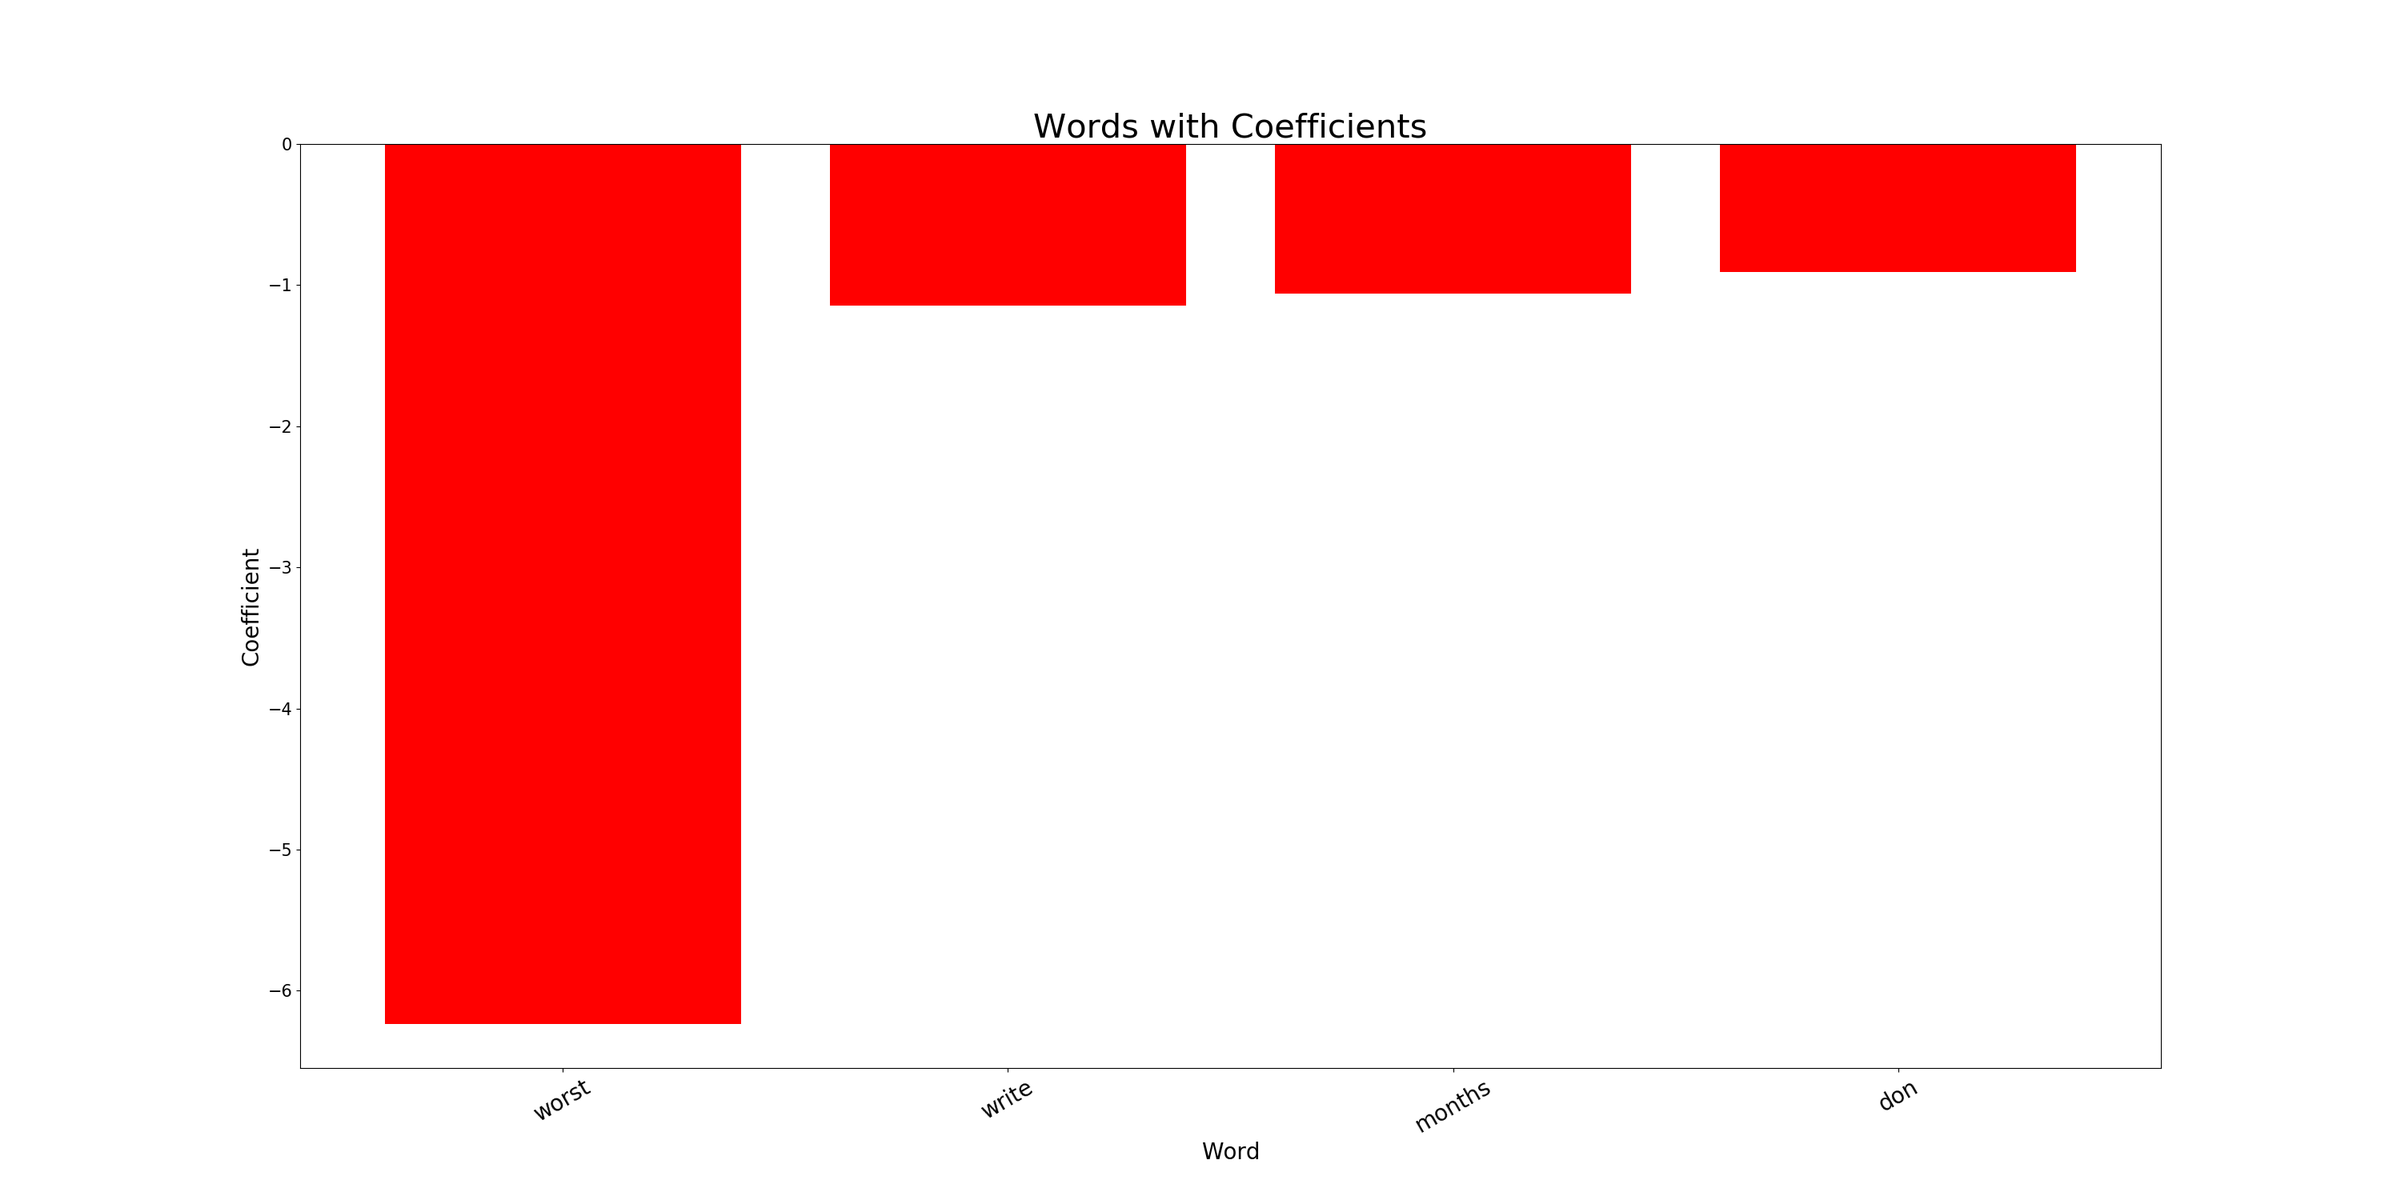
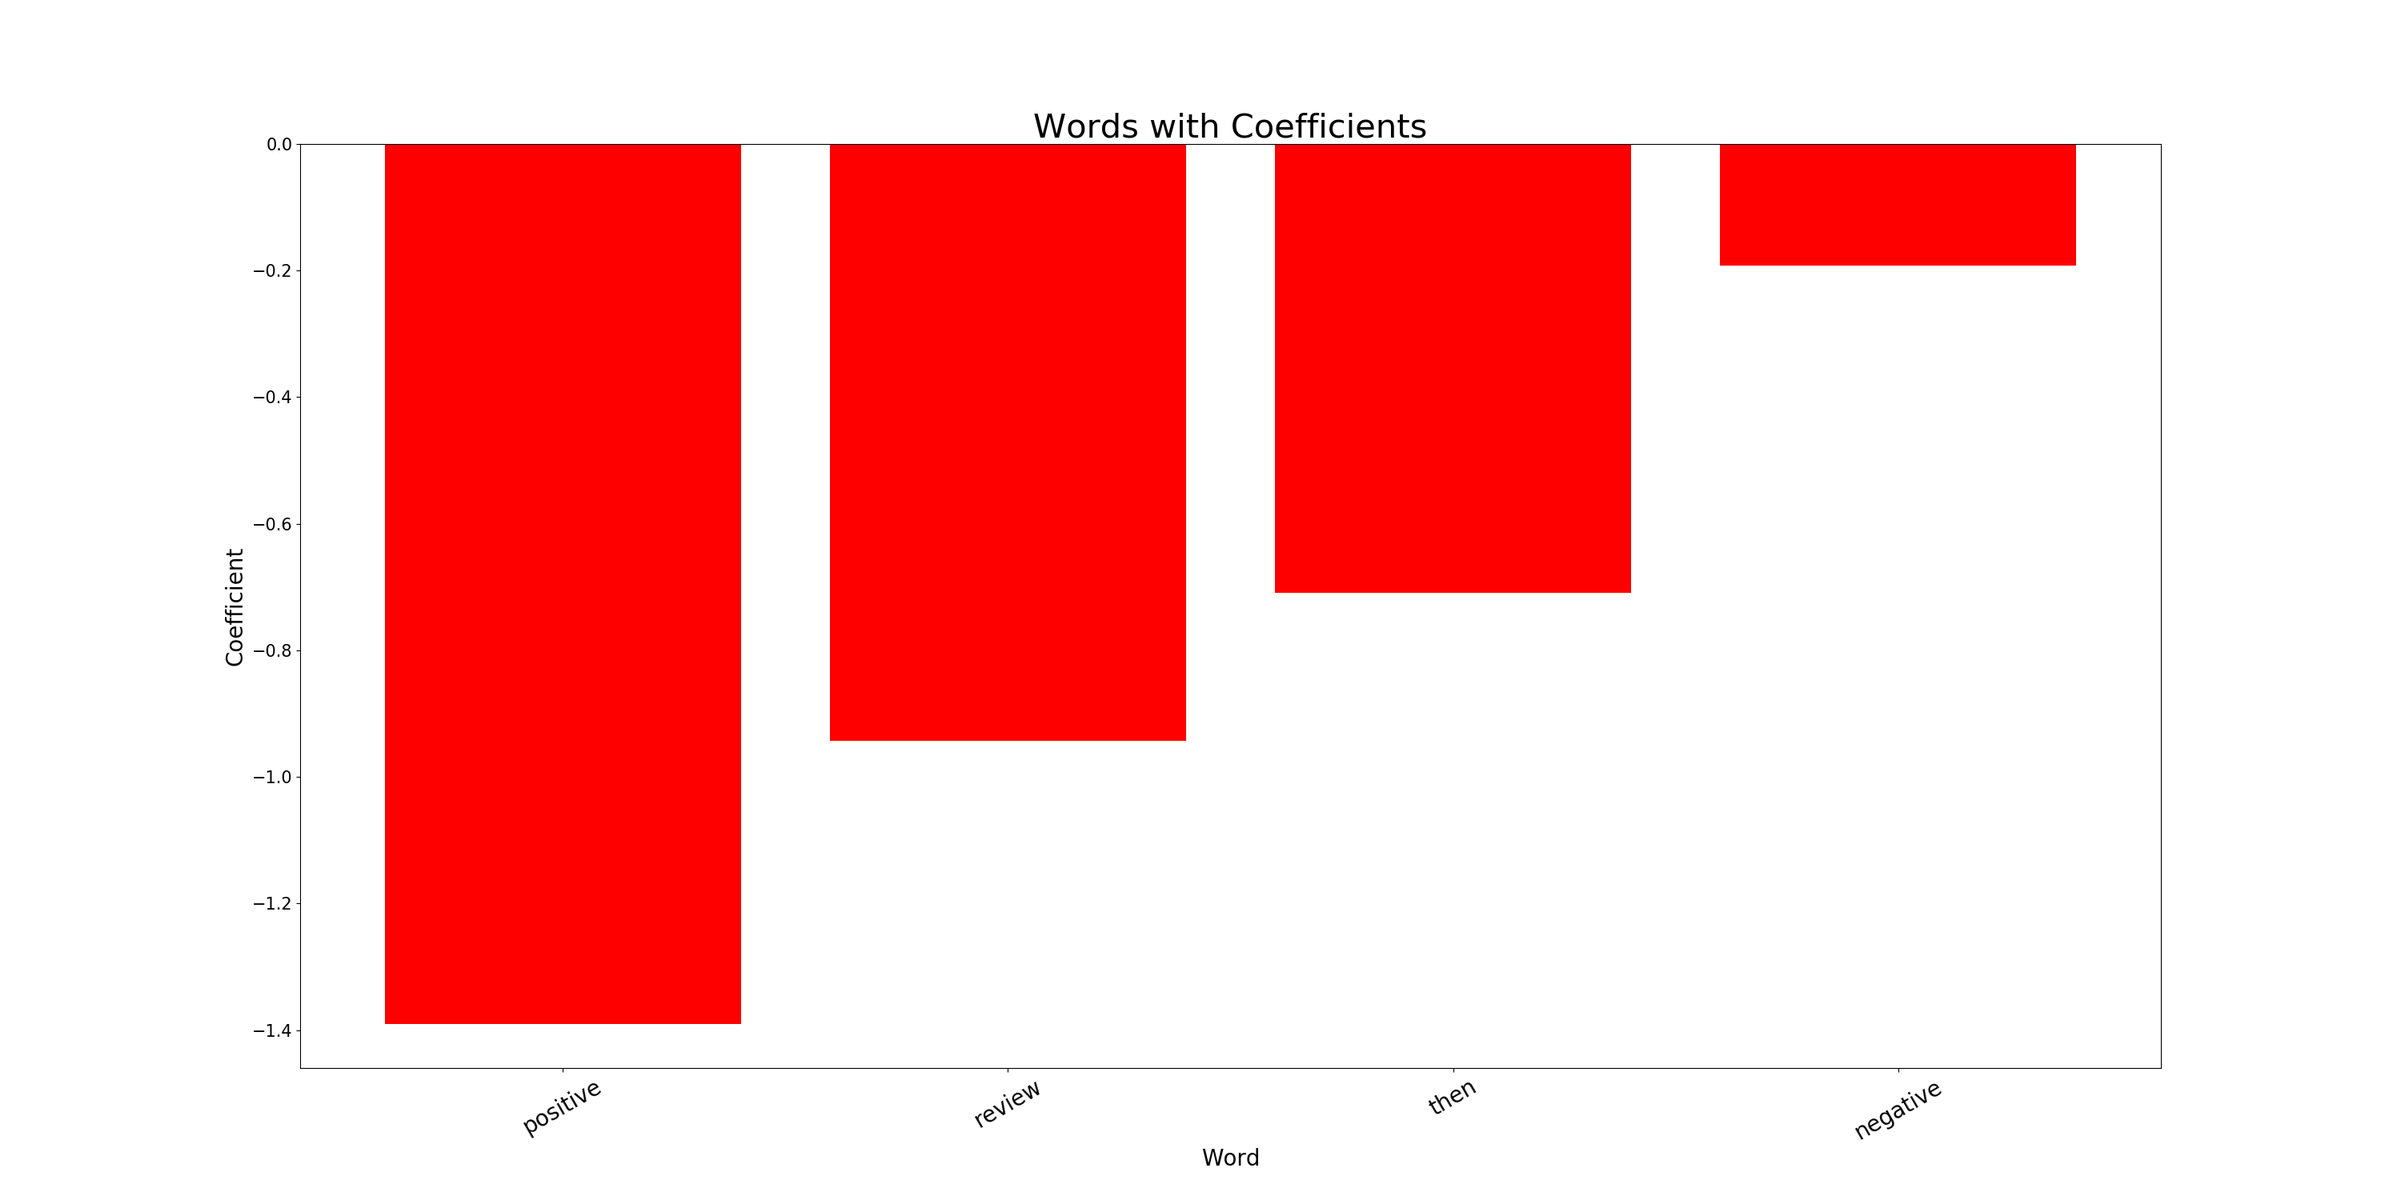
update pics

diff --git a/table.html b/table.html
@@ -1,151 +1,159 @@
 <style  type="text/css" >
-    #T_483a67ec_858c_11e9_af0d_b4ae2bc417aarow0_col0 {
+    #T_a8ccbfb4_858c_11e9_8a41_784f437bc938row0_col0 {
             width:  100px;
             text-align:  center;
-        }    #T_483a67ec_858c_11e9_af0d_b4ae2bc417aarow0_col1 {
-            color:  red;
-            background-color:  lightgreen;
-            : ;
-            width:  100px;
-            text-align:  center;
-        }    #T_483a67ec_858c_11e9_af0d_b4ae2bc417aarow0_col2 {
-            width:  100px;
-            text-align:  center;
-        }    #T_483a67ec_858c_11e9_af0d_b4ae2bc417aarow0_col3 {
-            width:  100px;
-            text-align:  center;
-        }    #T_483a67ec_858c_11e9_af0d_b4ae2bc417aarow0_col4 {
-            color:  red;
-            background-color:  lightgreen;
-            : ;
-            width:  100px;
-            text-align:  center;
-        }    #T_483a67ec_858c_11e9_af0d_b4ae2bc417aarow0_col5 {
-            width:  100px;
-            text-align:  center;
-        }    #T_483a67ec_858c_11e9_af0d_b4ae2bc417aarow0_col6 {
-            width:  100px;
-            text-align:  center;
-        }    #T_483a67ec_858c_11e9_af0d_b4ae2bc417aarow1_col0 {
-            width:  100px;
-            text-align:  center;
-        }    #T_483a67ec_858c_11e9_af0d_b4ae2bc417aarow1_col1 {
+        }    #T_a8ccbfb4_858c_11e9_8a41_784f437bc938row0_col1 {
             color:  red;
             : ;
             : ;
             width:  100px;
             text-align:  center;
-        }    #T_483a67ec_858c_11e9_af0d_b4ae2bc417aarow1_col2 {
+        }    #T_a8ccbfb4_858c_11e9_8a41_784f437bc938row0_col2 {
             width:  100px;
             text-align:  center;
-        }    #T_483a67ec_858c_11e9_af0d_b4ae2bc417aarow1_col3 {
+        }    #T_a8ccbfb4_858c_11e9_8a41_784f437bc938row0_col3 {
             width:  100px;
             text-align:  center;
-        }    #T_483a67ec_858c_11e9_af0d_b4ae2bc417aarow1_col4 {
+        }    #T_a8ccbfb4_858c_11e9_8a41_784f437bc938row0_col4 {
             color:  red;
             : ;
             : ;
             width:  100px;
             text-align:  center;
-        }    #T_483a67ec_858c_11e9_af0d_b4ae2bc417aarow1_col5 {
+        }    #T_a8ccbfb4_858c_11e9_8a41_784f437bc938row0_col5 {
             width:  100px;
             text-align:  center;
-        }    #T_483a67ec_858c_11e9_af0d_b4ae2bc417aarow1_col6 {
+        }    #T_a8ccbfb4_858c_11e9_8a41_784f437bc938row0_col6 {
             width:  100px;
             text-align:  center;
-        }    #T_483a67ec_858c_11e9_af0d_b4ae2bc417aarow2_col0 {
+        }    #T_a8ccbfb4_858c_11e9_8a41_784f437bc938row1_col0 {
             width:  100px;
             text-align:  center;
-        }    #T_483a67ec_858c_11e9_af0d_b4ae2bc417aarow2_col1 {
+        }    #T_a8ccbfb4_858c_11e9_8a41_784f437bc938row1_col1 {
             color:  red;
             : ;
             background-color:  yellow;
             width:  100px;
             text-align:  center;
-        }    #T_483a67ec_858c_11e9_af0d_b4ae2bc417aarow2_col2 {
+        }    #T_a8ccbfb4_858c_11e9_8a41_784f437bc938row1_col2 {
             width:  100px;
             text-align:  center;
-        }    #T_483a67ec_858c_11e9_af0d_b4ae2bc417aarow2_col3 {
+        }    #T_a8ccbfb4_858c_11e9_8a41_784f437bc938row1_col3 {
             width:  100px;
             text-align:  center;
-        }    #T_483a67ec_858c_11e9_af0d_b4ae2bc417aarow2_col4 {
+        }    #T_a8ccbfb4_858c_11e9_8a41_784f437bc938row1_col4 {
             color:  red;
             : ;
             background-color:  yellow;
             width:  100px;
             text-align:  center;
-        }    #T_483a67ec_858c_11e9_af0d_b4ae2bc417aarow2_col5 {
+        }    #T_a8ccbfb4_858c_11e9_8a41_784f437bc938row1_col5 {
             width:  100px;
             text-align:  center;
-        }    #T_483a67ec_858c_11e9_af0d_b4ae2bc417aarow2_col6 {
+        }    #T_a8ccbfb4_858c_11e9_8a41_784f437bc938row1_col6 {
             width:  100px;
             text-align:  center;
-        }    #T_483a67ec_858c_11e9_af0d_b4ae2bc417aarow3_col0 {
+        }    #T_a8ccbfb4_858c_11e9_8a41_784f437bc938row2_col0 {
             width:  100px;
             text-align:  center;
-        }    #T_483a67ec_858c_11e9_af0d_b4ae2bc417aarow3_col1 {
+        }    #T_a8ccbfb4_858c_11e9_8a41_784f437bc938row2_col1 {
+            color:  red;
+            background-color:  lightgreen;
+            : ;
+            width:  100px;
+            text-align:  center;
+        }    #T_a8ccbfb4_858c_11e9_8a41_784f437bc938row2_col2 {
+            width:  100px;
+            text-align:  center;
+        }    #T_a8ccbfb4_858c_11e9_8a41_784f437bc938row2_col3 {
+            width:  100px;
+            text-align:  center;
+        }    #T_a8ccbfb4_858c_11e9_8a41_784f437bc938row2_col4 {
+            color:  red;
+            background-color:  lightgreen;
+            : ;
+            width:  100px;
+            text-align:  center;
+        }    #T_a8ccbfb4_858c_11e9_8a41_784f437bc938row2_col5 {
+            width:  100px;
+            text-align:  center;
+        }    #T_a8ccbfb4_858c_11e9_8a41_784f437bc938row2_col6 {
+            width:  100px;
+            text-align:  center;
+        }    #T_a8ccbfb4_858c_11e9_8a41_784f437bc938row3_col0 {
+            width:  100px;
+            text-align:  center;
+        }    #T_a8ccbfb4_858c_11e9_8a41_784f437bc938row3_col1 {
             color:  red;
             : ;
             : ;
             width:  100px;
             text-align:  center;
-        }    #T_483a67ec_858c_11e9_af0d_b4ae2bc417aarow3_col2 {
+        }    #T_a8ccbfb4_858c_11e9_8a41_784f437bc938row3_col2 {
             width:  100px;
             text-align:  center;
-        }    #T_483a67ec_858c_11e9_af0d_b4ae2bc417aarow3_col3 {
+        }    #T_a8ccbfb4_858c_11e9_8a41_784f437bc938row3_col3 {
             width:  100px;
             text-align:  center;
-        }    #T_483a67ec_858c_11e9_af0d_b4ae2bc417aarow3_col4 {
+        }    #T_a8ccbfb4_858c_11e9_8a41_784f437bc938row3_col4 {
             color:  red;
             : ;
             : ;
             width:  100px;
             text-align:  center;
-        }    #T_483a67ec_858c_11e9_af0d_b4ae2bc417aarow3_col5 {
+        }    #T_a8ccbfb4_858c_11e9_8a41_784f437bc938row3_col5 {
             width:  100px;
             text-align:  center;
-        }    #T_483a67ec_858c_11e9_af0d_b4ae2bc417aarow3_col6 {
+        }    #T_a8ccbfb4_858c_11e9_8a41_784f437bc938row3_col6 {
             width:  100px;
             text-align:  center;
-        }</style><table id="T_483a67ec_858c_11e9_af0d_b4ae2bc417aa" ><thead>    <tr>        <th class="blank level0" ></th>        <th class="col_heading level0 col0" >_Feature_</th>        <th class="col_heading level0 col1" >_Contribution_</th>        <th class="col_heading level0 col2" >_Count_</th>        <th class="col_heading level0 col3" >_TFIDF_</th>        <th class="col_heading level0 col4" >_Coefficient_</th>        <th class="col_heading level0 col5" >_POSITIVE_</th>        <th class="col_heading level0 col6" >_NEGATIVE_</th>    </tr></thead><tbody>
-                <tr>
-                        <th id="T_483a67ec_858c_11e9_af0d_b4ae2bc417aalevel0_row0" class="row_heading level0 row0" >0</th>
-                        <td id="T_483a67ec_858c_11e9_af0d_b4ae2bc417aarow0_col0" class="data row0 col0" >don</td>
-                        <td id="T_483a67ec_858c_11e9_af0d_b4ae2bc417aarow0_col1" class="data row0 col1" >-0.3575</td>
-                        <td id="T_483a67ec_858c_11e9_af0d_b4ae2bc417aarow0_col2" class="data row0 col2" >1</td>
-                        <td id="T_483a67ec_858c_11e9_af0d_b4ae2bc417aarow0_col3" class="data row0 col3" >0.3934</td>
-                        <td id="T_483a67ec_858c_11e9_af0d_b4ae2bc417aarow0_col4" class="data row0 col4" >-0.9088</td>
-                        <td id="T_483a67ec_858c_11e9_af0d_b4ae2bc417aarow0_col5" class="data row0 col5" >68</td>
-                        <td id="T_483a67ec_858c_11e9_af0d_b4ae2bc417aarow0_col6" class="data row0 col6" >130</td>
-            </tr>
-            <tr>
-                        <th id="T_483a67ec_858c_11e9_af0d_b4ae2bc417aalevel0_row1" class="row_heading level0 row1" >1</th>
-                        <td id="T_483a67ec_858c_11e9_af0d_b4ae2bc417aarow1_col0" class="data row1 col0" >write</td>
-                        <td id="T_483a67ec_858c_11e9_af0d_b4ae2bc417aarow1_col1" class="data row1 col1" >-0.6539</td>
-                        <td id="T_483a67ec_858c_11e9_af0d_b4ae2bc417aarow1_col2" class="data row1 col2" >1</td>
-                        <td id="T_483a67ec_858c_11e9_af0d_b4ae2bc417aarow1_col3" class="data row1 col3" >0.5703</td>
-                        <td id="T_483a67ec_858c_11e9_af0d_b4ae2bc417aarow1_col4" class="data row1 col4" >-1.1467</td>
-                        <td id="T_483a67ec_858c_11e9_af0d_b4ae2bc417aarow1_col5" class="data row1 col5" >8</td>
-                        <td id="T_483a67ec_858c_11e9_af0d_b4ae2bc417aarow1_col6" class="data row1 col6" >22</td>
-            </tr>
-            <tr>
-                        <th id="T_483a67ec_858c_11e9_af0d_b4ae2bc417aalevel0_row2" class="row_heading level0 row2" >2</th>
-                        <td id="T_483a67ec_858c_11e9_af0d_b4ae2bc417aarow2_col0" class="data row2 col0" >worst</td>
-                        <td id="T_483a67ec_858c_11e9_af0d_b4ae2bc417aarow2_col1" class="data row2 col1" >-2.7999</td>
-                        <td id="T_483a67ec_858c_11e9_af0d_b4ae2bc417aarow2_col2" class="data row2 col2" >1</td>
-                        <td id="T_483a67ec_858c_11e9_af0d_b4ae2bc417aarow2_col3" class="data row2 col3" >0.449</td>
-                        <td id="T_483a67ec_858c_11e9_af0d_b4ae2bc417aarow2_col4" class="data row2 col4" >-6.2365</td>
-                        <td id="T_483a67ec_858c_11e9_af0d_b4ae2bc417aarow2_col5" class="data row2 col5" >2</td>
-                        <td id="T_483a67ec_858c_11e9_af0d_b4ae2bc417aarow2_col6" class="data row2 col6" >108</td>
-            </tr>
-            <tr>
-                        <th id="T_483a67ec_858c_11e9_af0d_b4ae2bc417aalevel0_row3" class="row_heading level0 row3" >3</th>
-                        <td id="T_483a67ec_858c_11e9_af0d_b4ae2bc417aarow3_col0" class="data row3 col0" >months</td>
-                        <td id="T_483a67ec_858c_11e9_af0d_b4ae2bc417aarow3_col1" class="data row3 col1" >-0.5986</td>
-                        <td id="T_483a67ec_858c_11e9_af0d_b4ae2bc417aarow3_col2" class="data row3 col2" >1</td>
-                        <td id="T_483a67ec_858c_11e9_af0d_b4ae2bc417aarow3_col3" class="data row3 col3" >0.5643</td>
-                        <td id="T_483a67ec_858c_11e9_af0d_b4ae2bc417aarow3_col4" class="data row3 col4" >-1.0608</td>
-                        <td id="T_483a67ec_858c_11e9_af0d_b4ae2bc417aarow3_col5" class="data row3 col5" >7</td>
-                        <td id="T_483a67ec_858c_11e9_af0d_b4ae2bc417aarow3_col6" class="data row3 col6" >25</td>
-            </tr>
-    </tbody></table>
+        }</style>  
+<table id="T_a8ccbfb4_858c_11e9_8a41_784f437bc938" > 
+<thead>    <tr> 
+        <th class="blank level0" ></th> 
+        <th class="col_heading level0 col0" >_Feature_</th> 
+        <th class="col_heading level0 col1" >_Contribution_</th> 
+        <th class="col_heading level0 col2" >_Count_</th> 
+        <th class="col_heading level0 col3" >_TFIDF_</th> 
+        <th class="col_heading level0 col4" >_Coefficient_</th> 
+        <th class="col_heading level0 col5" >_POSITIVE_</th> 
+        <th class="col_heading level0 col6" >_NEGATIVE_</th> 
+    </tr></thead> 
+<tbody>    <tr> 
+        <th id="T_a8ccbfb4_858c_11e9_8a41_784f437bc938level0_row0" class="row_heading level0 row0" >0</th> 
+        <td id="T_a8ccbfb4_858c_11e9_8a41_784f437bc938row0_col0" class="data row0 col0" >review</td> 
+        <td id="T_a8ccbfb4_858c_11e9_8a41_784f437bc938row0_col1" class="data row0 col1" >-0.613</td> 
+        <td id="T_a8ccbfb4_858c_11e9_8a41_784f437bc938row0_col2" class="data row0 col2" >2</td> 
+        <td id="T_a8ccbfb4_858c_11e9_8a41_784f437bc938row0_col3" class="data row0 col3" >0.6498</td> 
+        <td id="T_a8ccbfb4_858c_11e9_8a41_784f437bc938row0_col4" class="data row0 col4" >-0.9434</td> 
+        <td id="T_a8ccbfb4_858c_11e9_8a41_784f437bc938row0_col5" class="data row0 col5" >37</td> 
+        <td id="T_a8ccbfb4_858c_11e9_8a41_784f437bc938row0_col6" class="data row0 col6" >89</td> 
+    </tr>    <tr> 
+        <th id="T_a8ccbfb4_858c_11e9_8a41_784f437bc938level0_row1" class="row_heading level0 row1" >1</th> 
+        <td id="T_a8ccbfb4_858c_11e9_8a41_784f437bc938row1_col0" class="data row1 col0" >positive</td> 
+        <td id="T_a8ccbfb4_858c_11e9_8a41_784f437bc938row1_col1" class="data row1 col1" >-0.6558</td> 
+        <td id="T_a8ccbfb4_858c_11e9_8a41_784f437bc938row1_col2" class="data row1 col2" >1</td> 
+        <td id="T_a8ccbfb4_858c_11e9_8a41_784f437bc938row1_col3" class="data row1 col3" >0.4716</td> 
+        <td id="T_a8ccbfb4_858c_11e9_8a41_784f437bc938row1_col4" class="data row1 col4" >-1.3905</td> 
+        <td id="T_a8ccbfb4_858c_11e9_8a41_784f437bc938row1_col5" class="data row1 col5" >2</td> 
+        <td id="T_a8ccbfb4_858c_11e9_8a41_784f437bc938row1_col6" class="data row1 col6" >13</td> 
+    </tr>    <tr> 
+        <th id="T_a8ccbfb4_858c_11e9_8a41_784f437bc938level0_row2" class="row_heading level0 row2" >2</th> 
+        <td id="T_a8ccbfb4_858c_11e9_8a41_784f437bc938row2_col0" class="data row2 col0" >negative</td> 
+        <td id="T_a8ccbfb4_858c_11e9_8a41_784f437bc938row2_col1" class="data row2 col1" >-0.0936</td> 
+        <td id="T_a8ccbfb4_858c_11e9_8a41_784f437bc938row2_col2" class="data row2 col2" >1</td> 
+        <td id="T_a8ccbfb4_858c_11e9_8a41_784f437bc938row2_col3" class="data row2 col3" >0.4864</td> 
+        <td id="T_a8ccbfb4_858c_11e9_8a41_784f437bc938row2_col4" class="data row2 col4" >-0.1925</td> 
+        <td id="T_a8ccbfb4_858c_11e9_8a41_784f437bc938row2_col5" class="data row2 col5" >4</td> 
+        <td id="T_a8ccbfb4_858c_11e9_8a41_784f437bc938row2_col6" class="data row2 col6" >8</td> 
+    </tr>    <tr> 
+        <th id="T_a8ccbfb4_858c_11e9_8a41_784f437bc938level0_row3" class="row_heading level0 row3" >3</th> 
+        <td id="T_a8ccbfb4_858c_11e9_8a41_784f437bc938row3_col0" class="data row3 col0" >then</td> 
+        <td id="T_a8ccbfb4_858c_11e9_8a41_784f437bc938row3_col1" class="data row3 col1" >-0.2444</td> 
+        <td id="T_a8ccbfb4_858c_11e9_8a41_784f437bc938row3_col2" class="data row3 col2" >1</td> 
+        <td id="T_a8ccbfb4_858c_11e9_8a41_784f437bc938row3_col3" class="data row3 col3" >0.3447</td> 
+        <td id="T_a8ccbfb4_858c_11e9_8a41_784f437bc938row3_col4" class="data row3 col4" >-0.7091</td> 
+        <td id="T_a8ccbfb4_858c_11e9_8a41_784f437bc938row3_col5" class="data row3 col5" >31</td> 
+        <td id="T_a8ccbfb4_858c_11e9_8a41_784f437bc938row3_col6" class="data row3 col6" >64</td> 
+    </tr></tbody> 
+</table> 

diff --git a/all_in_one_P2.py b/all_in_one_P2.py
@@ -399,37 +399,40 @@ class Model:
         s = self.predict(input_string)
         output.append(s) # prediction
         df,df_style,s = self.analysis(input_string)
-        output.append(s) # analysis
-        
+
         figs = self.generate_graphs(input_string)
-        figs[0].savefig("4.png")
-        figs[1].savefig("5.png")
-        figs[2].savefig("6.png")
+        output.append(3)
+        figs[0].savefig("3.png") # pi chart
+
+        output.append(s) # analysis (4)
+
+        output.append(5) # highlight (5)
+        to_html(df_style,'table.html')
+        subprocess.call(
+            'wkhtmltoimage -f png --width 0 table.html 5.png', shell=True)
+        
+        output.append(6)
+        output.append(7)
+        figs[1].savefig("6.png")
+        figs[2].savefig("7.png")
         
         # dian's method using matplotlib to plot a DataFrame as table and 
 #         decimals = pd.Series([4,4,4], index=['_Contribution_', '_TFIDF_', '_Coefficient_'])
 #         df = df.round(decimals)
 #         f = render_mpl_table(data=df, header_columns=0, col_width=2.5)
 #         f.savefig('7.png')
-        
-        to_html(df_style,'table.html')
-        subprocess.call(
-            'wkhtmltoimage -f png --width 0 table.html 7.png', shell=True)
 
         # this library works fine on linux and jupyter, but not supporting windows
 #         import imgkit
 #         html = df.render()
 #         options = {"xvfb": ""}
 #         imgkit.from_string(html, "7.png")#, options=options)
-        
-        output.append(4)
-        output.append(5)
-        output.append(6)
-        output.append(7)
-#         output.append(8)
+  
+        output.append(8)        
+        output.append(9)
 
         
-        dic = {0:'s', 4:'4.png', 5:'5.png', 6:'6.png', 7:'7.png'}
+        dic = {0:'s', 3:'3.png', 5:'5.png', 6:'6.png', 7:'7.png', 8:'image/wordcloud_real.png', 9:'mage/wordcloud_fake.png'}
         return output, dic
     
 def render_mpl_table(data, col_width=3.0, row_height=0.625, font_size=14,
